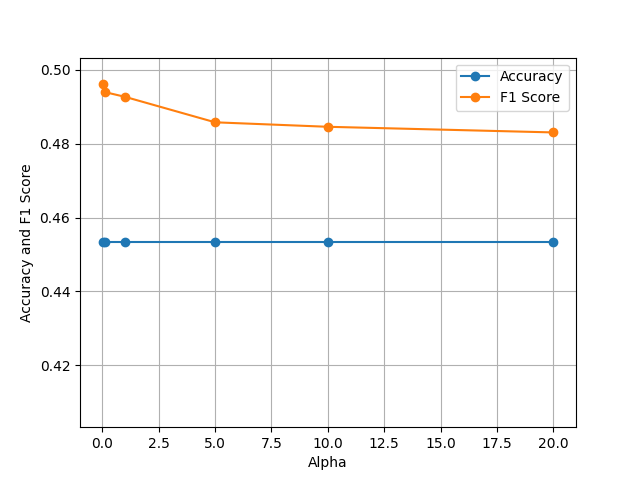
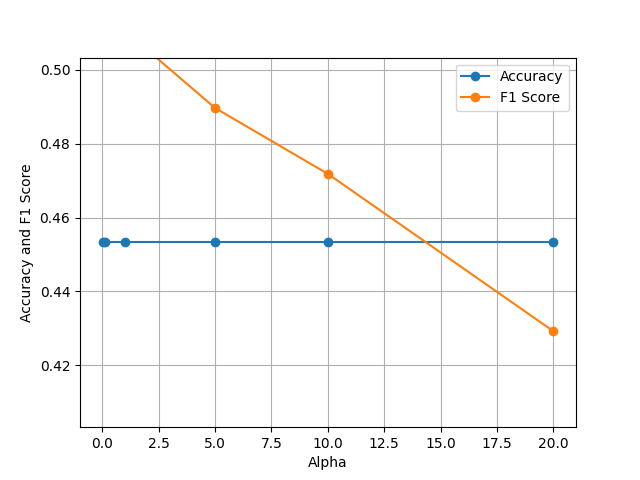
3 sets done

diff --git a/ozel/main_parkinsons.py b/ozel/main_parkinsons.py
@@ -1,0 +1,228 @@
+import pandas as pd
+from kfold import StratifiedKFold
+from knn import KNN, normalize_data
+from itertools import product
+from random_forest import RandomForest
+from standard_nb import NaiveBayes
+import matplotlib.pyplot as plt
+
+def run_rf():
+    # Random Forest for Parkinson's Dataset
+    parkinsons_df = pd.read_csv("data/parkinsons.csv")
+    splitter = StratifiedKFold(k=10, class_column="Diagnosis")
+
+    hyperparams = {
+        "n_tree": [2, 5, 10, 20, 30, 50],
+    }
+
+    param_grid = product(*hyperparams.values())
+    param_names = list(hyperparams.keys())
+    
+    best_params = None
+    best_accuracy = 0
+    best_f1_score = 0
+
+    print("Random Forest for Parkinson's Dataset")
+    accuracies = []
+    f1_scores = []
+    for params in param_grid:
+        params_dict = dict(zip(param_names, params))
+
+        avg_accuracy = 0
+        avg_f1_score = 0
+        for train_split, test_split in splitter.get_splits(parkinsons_df):
+            rf_model = RandomForest(n_tree=params_dict["n_tree"], data=train_split, numeric_end="", class_column="Diagnosis")
+            tp, fp, fn, tn = rf_model.confusion_matrix(test_split)
+            accuracy = (tp + tn) / (tp + tn + fp + fn)
+            precision = tp / (tp + fp)
+            recall = tp / (tp + fn)
+            f1_score = 2 * precision * recall / (precision + recall)
+
+            avg_accuracy += accuracy
+            avg_f1_score += f1_score
+
+        avg_accuracy /= 10
+        avg_f1_score /= 10
+        print(f"\tParams: {params_dict}")
+        print(f"\tAvg Accuracy: {avg_accuracy}")
+        print(f"\tAvg F1 Score: {avg_f1_score}")
+        print()
+
+        if avg_accuracy > best_accuracy:
+            best_accuracy = avg_accuracy
+            best_f1_score = avg_f1_score
+            best_params = params_dict
+        
+        accuracies.append(avg_accuracy)
+        f1_scores.append(avg_f1_score)
+        
+    print(f"Best Params: {best_params}")
+    print(f"Best Accuracy: {best_accuracy}")
+    print(f"Best F1 Score: {best_f1_score}")
+
+    with open("ozel/results/parkinsons_rf.txt", "w") as f:
+        f.write(f"Best Params: {best_params}\n")
+        f.write(f"Best Accuracy: {best_accuracy}\n")
+        f.write(f"Best F1 Score: {best_f1_score}\n")
+    
+    plt.plot(hyperparams["n_tree"], accuracies, label="Accuracy", marker="o")
+    plt.plot(hyperparams["n_tree"], f1_scores, label="F1 Score", marker="o")
+    plt.ylim(min(accuracies) - 0.05, max(accuracies) + 0.05)
+    plt.xlabel("Number of Trees")
+    plt.ylabel("Accuracy and F1 Score")
+    plt.legend()
+    plt.grid()
+    plt.savefig("ozel/figures/parkinsons_rf.png")
+    plt.clf()
+
+def run_knn():
+    # KNN for Parkinson's Dataset
+    parkinsons_df = pd.read_csv("data/parkinsons.csv")
+    splitter = StratifiedKFold(k=10, class_column="Diagnosis")
+
+    hyperparams = {
+        "k": [1, 3, 5, 10, 20, 30],
+    }
+
+    param_grid = product(*hyperparams.values())
+    param_names = list(hyperparams.keys())
+
+    best_params = None
+    best_accuracy = 0
+    best_f1_score = 0
+
+    accuracies = []
+    f1_scores = []
+
+    print("KNN for Parkinson's Dataset")
+    for params in param_grid:
+        params_dict = dict(zip(param_names, params))
+        
+        avg_accuracy = 0
+        avg_f1_score = 0
+        for train_split, test_split in splitter.get_splits(parkinsons_df):
+            X_train = normalize_data(train_split.drop(columns=["Diagnosis"]))
+            y_train = train_split["Diagnosis"]
+            X_test = normalize_data(test_split.drop(columns=["Diagnosis"]))
+            y_test = test_split["Diagnosis"]
+
+            knn_model = KNN(k=params_dict["k"])
+            knn_model.fit(X_train, y_train)
+            tp, fp, fn, tn = knn_model.confusion_matrix(X_test, y_test)
+            accuracy = (tp + tn) / (tp + tn + fp + fn)
+            precision = tp / (tp + fp)
+            recall = tp / (tp + fn)
+            f1_score = 2 * precision * recall / (precision + recall)
+
+            avg_accuracy += accuracy
+            avg_f1_score += f1_score
+        
+        avg_accuracy /= 10
+        avg_f1_score /= 10
+        print(f"\tParams: {params_dict}")
+        print(f"\tAvg Accuracy: {avg_accuracy}")
+        print(f"\tAvg F1 Score: {avg_f1_score}")
+        print()
+
+        if avg_accuracy > best_accuracy:
+            best_accuracy = avg_accuracy
+            best_f1_score = avg_f1_score
+            best_params = params_dict
+        
+        accuracies.append(avg_accuracy)
+        f1_scores.append(avg_f1_score)
+    
+    print(f"Best Params: {best_params}")
+    print(f"Best Accuracy: {best_accuracy}")
+    print(f"Best F1 Score: {best_f1_score}")
+
+    with open("ozel/results/parkinsons_knn.txt", "w") as f:
+        f.write(f"Best Params: {best_params}\n")
+        f.write(f"Best Accuracy: {best_accuracy}\n")
+        f.write(f"Best F1 Score: {best_f1_score}\n")
+
+    plt.plot(hyperparams["k"], accuracies, label="Accuracy", marker="o")
+    plt.plot(hyperparams["k"], f1_scores, label="F1 Score", marker="o")
+    plt.ylim(min(accuracies) - 0.05, max(accuracies) + 0.05)
+    plt.xlabel("Number of Neighbors")
+    plt.ylabel("Accuracy and F1 Score")
+    plt.legend()
+    plt.grid()
+    plt.savefig("ozel/figures/parkinsons_knn.png")
+    plt.clf()
+
+def run_nb():
+    # Naive Bayes for Parkinson's Dataset
+    parkinsons_df = pd.read_csv("data/parkinsons.csv")
+    splitter = StratifiedKFold(k=10, class_column="Diagnosis")
+
+    hyperparams = {
+        "alpha": [0.1, 0.5, 1, 2, 5, 10],
+    }
+
+    param_grid = product(*hyperparams.values())
+    param_names = list(hyperparams.keys())
+
+    best_params = None
+    best_accuracy = 0
+    best_f1_score = 0
+
+    accuracies = []
+    f1_scores = []
+
+    print("Naive Bayes for Parkinson's Dataset")
+    for params in param_grid:
+        params_dict = dict(zip(param_names, params))
+
+        avg_accuracy = 0
+        avg_f1_score = 0
+        for train_split, test_split in splitter.get_splits(parkinsons_df):
+            nb_model = NaiveBayes(alpha=params_dict["alpha"], numeric_end="")
+            nb_model.fit(train_split.drop(columns=["Diagnosis"]), train_split["Diagnosis"])
+            tp, fp, fn, tn = nb_model.confusion_matrix(test_split.drop(columns=["Diagnosis"]), test_split["Diagnosis"])
+            accuracy = (tp + tn) / (tp + tn + fp + fn)
+            precision = tp / (tp + fp) if tp + fp > 0 else 0
+            recall = tp / (tp + fn) if tp + fn > 0 else 0
+            f1_score = 2 * precision * recall / (precision + recall) if precision + recall > 0 else 0
+
+            avg_accuracy += accuracy
+            avg_f1_score += f1_score
+        
+        avg_accuracy /= 10
+        avg_f1_score /= 10
+        print(f"\tParams: {params_dict}")
+        print(f"\tAvg Accuracy: {avg_accuracy}")
+        print(f"\tAvg F1 Score: {avg_f1_score}")
+        print()
+
+        if avg_accuracy > best_accuracy:
+            best_accuracy = avg_accuracy
+            best_f1_score = avg_f1_score
+            best_params = params_dict
+        
+        accuracies.append(avg_accuracy)
+        f1_scores.append(avg_f1_score)
+    
+    print(f"Best Params: {best_params}")
+    print(f"Best Accuracy: {best_accuracy}")
+    print(f"Best F1 Score: {best_f1_score}")
+
+    with open("ozel/results/parkinsons_nb.txt", "w") as f:
+        f.write(f"Best Params: {best_params}\n")
+        f.write(f"Best Accuracy: {best_accuracy}\n")
+        f.write(f"Best F1 Score: {best_f1_score}\n")
+
+    plt.plot(hyperparams["alpha"], accuracies, label="Accuracy", marker="o")
+    plt.plot(hyperparams["alpha"], f1_scores, label="F1 Score", marker="o")
+    plt.ylim(min(accuracies) - 0.05, max(accuracies) + 0.05)
+    plt.xlabel("Alpha")
+    plt.ylabel("Accuracy and F1 Score")
+    plt.legend()
+    plt.grid()
+    plt.savefig("ozel/figures/parkinsons_nb.png")
+    plt.clf()
+
+if __name__ == "__main__":
+    # run_rf()
+    run_knn()
+    run_nb()

diff --git a/ozel/random_forest.py b/ozel/random_forest.py
@@ -246,6 +246,7 @@ class RandomForest:
             stopping_criterion=self.stopping_criterion,
             stopping_criterion_hyperparameter=self.stopping_criterion_hyperparameter,
             numeric_end=self.numeric_end,
+            class_column=self.class_column,
         )
 
     def _create_boots(self):
